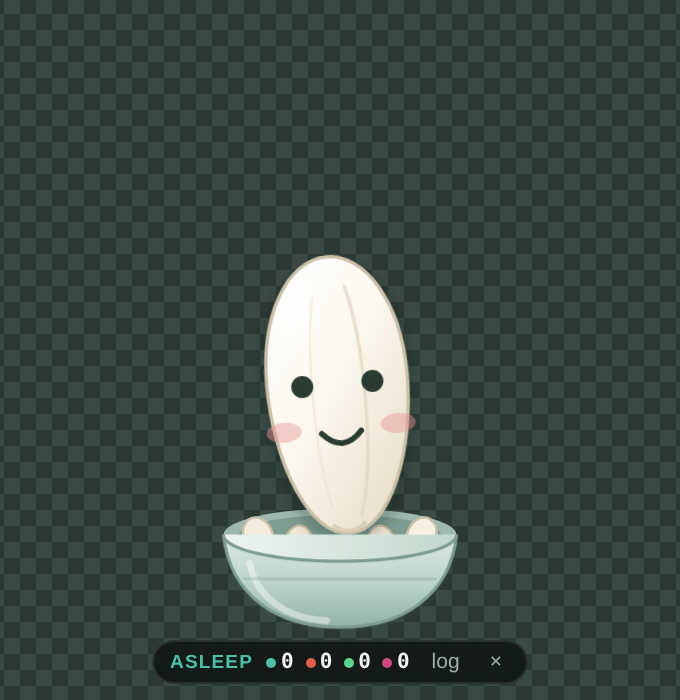
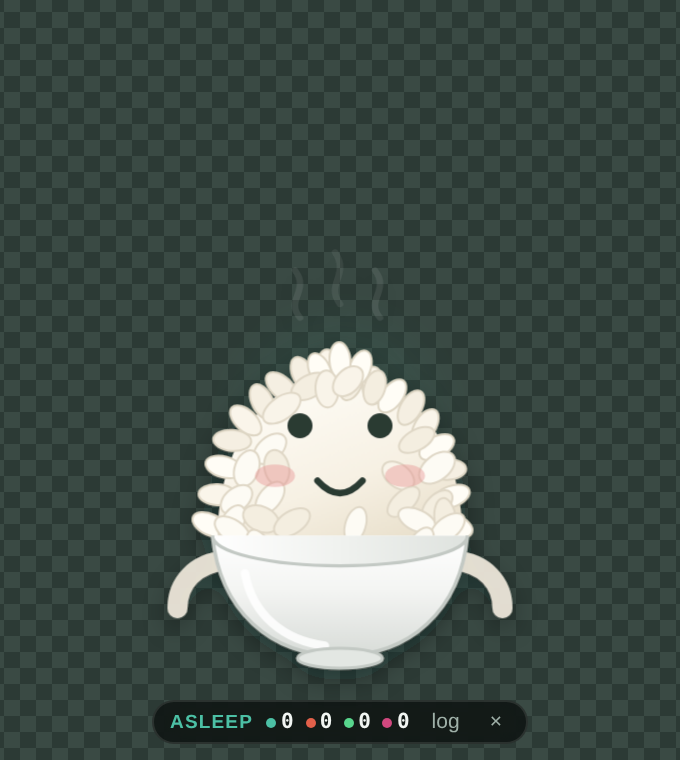
Rice is a bowl of rice now, and it has a personality
Following the team's reference: not one grain wearing a bowl, but a heaped
bowl of rice with a face. Reads instantly, and it is a lot cuter.

The heap is a solid dome with ~45 individual grains laid over it on a jittered
polar arrangement — hand-placing that many ellipses is a bad use of an evening
and looks it. Three things it took a few passes to get right:

  - the centre is deliberately left bare so the face has somewhere to live.
    A full-density heap turned the expression into noise.
  - grains straddle the silhouette so the outline is scalloped. Without that
    the profile is smooth and it goes straight back to reading as an egg,
    which was the original complaint.
  - the heap sits low and wide. Tall and domed looked like a beehive.

Characteristics, which is what was actually being asked for:
  - two arms that gesture per state — waving on hover, both up when
    celebrating, holding the shield when refused, holding the receipt when
    proving, tucked when asleep
  - steam, but only in the warm states (calm, hover, allowed, celebrating).
    A permanently steaming bowl says nothing; an intermittent one says mood.

The whole character now animates as one and pivots on the base of the bowl,
rather than a grain moving inside static furniture — a bowl of rice is one
creature, not a thing in a container.

41 tests passing; all 16 states re-rendered and checked.

Changed region(s): [[0.2471, 0.36, 0.7721, 0.96]]

diff --git a/pet/src/index.html b/pet/src/index.html
@@ -21,84 +21,122 @@
 
       <!-- The bowl stays put. The grain moves inside it. That is why the bowl
            is in two layers: back rim, grain, then front of the bowl on top. -->
-      <svg id="scene" viewBox="0 0 120 176" width="132" height="194" aria-hidden="true">
+      <svg id="scene" viewBox="0 0 120 180" width="150" height="225" aria-hidden="true">
         <defs>
-          <linearGradient id="grainFill" x1="0.18" y1="0.02" x2="0.9" y2="0.98">
-            <stop offset="0"    stop-color="#ffffff"/>
-            <stop offset="0.45" stop-color="#fbf7ec"/>
-            <stop offset="1"    stop-color="#e6dcc6"/>
+          <linearGradient id="moundFill" x1="0.25" y1="0" x2="0.8" y2="1">
+            <stop offset="0"   stop-color="#fffdf7"/>
+            <stop offset="0.6" stop-color="#f7f1e4"/>
+            <stop offset="1"   stop-color="#e9e0cc"/>
           </linearGradient>
-          <radialGradient id="grainSheen" cx="0.33" cy="0.24" r="0.46">
-            <stop offset="0" stop-color="#ffffff" stop-opacity="0.95"/>
-            <stop offset="1" stop-color="#ffffff" stop-opacity="0"/>
-          </radialGradient>
           <linearGradient id="bowlFill" x1="0" y1="0" x2="0" y2="1">
-            <stop offset="0"   stop-color="#dcebe4"/>
-            <stop offset="0.55" stop-color="#b9d2c8"/>
-            <stop offset="1"   stop-color="#93b3a7"/>
+            <stop offset="0"    stop-color="#ffffff"/>
+            <stop offset="0.45" stop-color="#f4f5f3"/>
+            <stop offset="1"    stop-color="#d8dcd8"/>
           </linearGradient>
           <linearGradient id="rimFill" x1="0" y1="0" x2="1" y2="0">
-            <stop offset="0"   stop-color="#eef5f1"/>
-            <stop offset="0.5" stop-color="#d7e7df"/>
-            <stop offset="1"   stop-color="#c2d8ce"/>
+            <stop offset="0"   stop-color="#ffffff"/>
+            <stop offset="0.5" stop-color="#f0f2ef"/>
+            <stop offset="1"   stop-color="#dfe3df"/>
           </linearGradient>
           <filter id="soft" x="-40%" y="-40%" width="180%" height="180%">
-            <feDropShadow dx="0" dy="3" stdDeviation="4" flood-color="#0b1a14" flood-opacity="0.32"/>
+            <feDropShadow dx="0" dy="4" stdDeviation="5" flood-color="#0b1a14" flood-opacity="0.34"/>
           </filter>
         </defs>
 
-        <!-- back of the rim, so the grain appears to sit down inside -->
-        <g class="bowl-back">
-          <ellipse cx="60" cy="132" rx="53" ry="12" fill="#9db9ae"/>
-          <ellipse cx="60" cy="132" rx="46" ry="9" fill="#7d9c90"/>
-        </g>
+        <!-- The whole character animates as one: a bowl of rice is a single
+             creature, not a grain sitting in furniture. -->
+        <g id="grain" class="grain" filter="url(#soft)">
 
-        <!-- two more grains, mostly buried. they do a lot of work: one shape is
-             ambiguous, three in a bowl are unmistakably rice -->
-        <g class="side-grains">
-          <path d="M20 142 c-3 -7 -2 -14 3 -16 c5 -2 9 3 8 9 c-1 6 -4 10 -7 10 z"
-                fill="#f3ecdc" stroke="#cdbfa4" stroke-width="1.1" transform="rotate(-34 21 136)"/>
-          <path d="M100 142 c3 -7 2 -14 -3 -16 c-5 -2 -9 3 -8 9 c1 6 4 10 7 10 z"
-                fill="#f6f0e2" stroke="#cdbfa4" stroke-width="1.1" transform="rotate(32 99 136)"/>
-          <path d="M38 144 c-3 -6 -2 -13 3 -15 c5 -2 8 3 7 8 c-1 5 -4 9 -6 9 z"
-                fill="#efe7d4" stroke="#cdbfa4" stroke-width="1" transform="rotate(-14 39 139)"/>
-          <path d="M82 144 c3 -6 2 -13 -3 -15 c-5 -2 -8 3 -7 8 c1 5 4 9 6 9 z"
-                fill="#f1e9d8" stroke="#cdbfa4" stroke-width="1" transform="rotate(12 81 139)"/>
-        </g>
-
-        <!-- the grain itself: narrow, tilted, creased, with the germ notch -->
-        <g id="grain" class="grain">
-          <g transform="rotate(-5 60 78)" filter="url(#soft)">
-            <path class="grain-body"
-                  d="M60 6
-                     C78 6 92 30 92 62
-                     C92 96 79 132 60 132
-                     C41 132 28 96 28 62
-                     C28 30 42 6 60 6 Z"
-                  fill="url(#grainFill)" stroke="#cbbfa6" stroke-width="1.5"/>
-            <ellipse cx="49" cy="40" rx="15" ry="24" fill="url(#grainSheen)"/>
-            <!-- the crease that runs down a grain of rice -->
-<path d="M67 20 C74 46 74 100 66 124" stroke="#e0d5bd" stroke-width="1.5"
-                  fill="none" stroke-linecap="round" opacity=".7"/>
-            <path d="M52 24 C47 48 47 96 53 120" stroke="#e6ddc8" stroke-width="1.1"
-                  fill="none" stroke-linecap="round" opacity=".45"/>
-            <!-- the germ: the little blunt notch at the base -->
-            <path d="M53 128 q7 6 14 0" stroke="#d6c9ae" stroke-width="1.8"
-                  fill="none" stroke-linecap="round" opacity=".8"/>
-            <g id="face" transform="translate(0 -10)"></g>
+          <!-- steam. only visible in the warm states, see styles.css -->
+          <g class="steam">
+            <path d="M44 30 c-6 -8 4 -12 -2 -21" fill="none" stroke="#ffffff"
+                  stroke-opacity=".5" stroke-width="2.6" stroke-linecap="round"/>
+            <path d="M60 24 c-6 -9 4 -13 -2 -23" fill="none" stroke="#ffffff"
+                  stroke-opacity=".42" stroke-width="2.6" stroke-linecap="round"/>
+            <path d="M76 30 c-6 -8 4 -12 -2 -21" fill="none" stroke="#ffffff"
+                  stroke-opacity=".5" stroke-width="2.6" stroke-linecap="round"/>
           </g>
-        </g>
 
-        <!-- front of the bowl, drawn over the grain -->
-        <g class="bowl-front">
-          <path d="M7 132 C10 160 32 174 60 174 C88 174 110 160 113 132 Z" fill="url(#bowlFill)"/>
-          <path d="M7 132 C10 160 32 174 60 174 C88 174 110 160 113 132"
-                fill="none" stroke="#7d9c90" stroke-width="1.4"/>
-          <path d="M7 132 a53 12 0 0 0 106 0" fill="url(#rimFill)"/>
-          <path d="M7 132 a53 12 0 0 0 106 0" fill="none" stroke="#7d9c90" stroke-width="1.4"/>
-          <path d="M19 145 C22 161 36 170 54 171" fill="none" stroke="#ffffff"
-                stroke-opacity=".45" stroke-width="3" stroke-linecap="round"/>
-          <path d="M16 152 h88" fill="none" stroke="#7d9c90" stroke-opacity=".35" stroke-width="1.2"/>
+          <!-- the heap: a solid dome first, then individual grains on top of it,
+               so the silhouette stays clean at small sizes -->
+          <path d="M11 120 C11 82 30 54 60 54 C90 54 109 82 109 120 Z" fill="url(#moundFill)"/>
+          <g class="mound">
+            <ellipse cx="8.1" cy="113.6" rx="4.2" ry="7.6" fill="#fffdf6" stroke="#ded6c4" stroke-width="0.8" transform="rotate(-65 8.1 113.6)"/>
+            <ellipse cx="11.0" cy="101.6" rx="4.2" ry="7.6" fill="#faf5ea" stroke="#ded6c4" stroke-width="0.8" transform="rotate(-87 11.0 101.6)"/>
+            <ellipse cx="13.6" cy="90.5" rx="4.2" ry="7.6" fill="#fffdf6" stroke="#ded6c4" stroke-width="0.8" transform="rotate(-75 13.6 90.5)"/>
+            <ellipse cx="16.9" cy="79.9" rx="4.2" ry="7.6" fill="#f5efe2" stroke="#ded6c4" stroke-width="0.8" transform="rotate(-86 16.9 79.9)"/>
+            <ellipse cx="22.3" cy="71.9" rx="4.2" ry="7.6" fill="#faf5ea" stroke="#ded6c4" stroke-width="0.8" transform="rotate(-47 22.3 71.9)"/>
+            <ellipse cx="29.0" cy="64.5" rx="4.2" ry="7.6" fill="#f5efe2" stroke="#ded6c4" stroke-width="0.8" transform="rotate(-27 29.0 64.5)"/>
+            <ellipse cx="36.6" cy="58.6" rx="4.2" ry="7.6" fill="#f5efe2" stroke="#ded6c4" stroke-width="0.8" transform="rotate(-47 36.6 58.6)"/>
+            <ellipse cx="45.3" cy="53.6" rx="4.2" ry="7.6" fill="#f5efe2" stroke="#ded6c4" stroke-width="0.8" transform="rotate(-26 45.3 53.6)"/>
+            <ellipse cx="54.9" cy="51.1" rx="4.2" ry="7.6" fill="#faf5ea" stroke="#ded6c4" stroke-width="0.8" transform="rotate(-2 54.9 51.1)"/>
+            <ellipse cx="64.7" cy="56.6" rx="4.2" ry="7.6" fill="#f5efe2" stroke="#ded6c4" stroke-width="0.8" transform="rotate(22 64.7 56.6)"/>
+            <ellipse cx="73.2" cy="58.0" rx="4.2" ry="7.6" fill="#faf5ea" stroke="#ded6c4" stroke-width="0.8" transform="rotate(1 73.2 58.0)"/>
+            <ellipse cx="80.9" cy="62.1" rx="4.2" ry="7.6" fill="#fffdf6" stroke="#ded6c4" stroke-width="0.8" transform="rotate(36 80.9 62.1)"/>
+            <ellipse cx="88.4" cy="66.8" rx="4.2" ry="7.6" fill="#f5efe2" stroke="#ded6c4" stroke-width="0.8" transform="rotate(31 88.4 66.8)"/>
+            <ellipse cx="94.1" cy="74.2" rx="4.2" ry="7.6" fill="#faf5ea" stroke="#ded6c4" stroke-width="0.8" transform="rotate(32 94.1 74.2)"/>
+            <ellipse cx="98.7" cy="82.6" rx="4.2" ry="7.6" fill="#fffdf6" stroke="#ded6c4" stroke-width="0.8" transform="rotate(61 98.7 82.6)"/>
+            <ellipse cx="102.9" cy="91.5" rx="4.2" ry="7.6" fill="#f5efe2" stroke="#ded6c4" stroke-width="0.8" transform="rotate(88 102.9 91.5)"/>
+            <ellipse cx="104.6" cy="102.3" rx="4.2" ry="7.6" fill="#fffdf6" stroke="#ded6c4" stroke-width="0.8" transform="rotate(70 104.6 102.3)"/>
+            <ellipse cx="105.8" cy="113.9" rx="4.2" ry="7.6" fill="#fffdf6" stroke="#ded6c4" stroke-width="0.8" transform="rotate(112 105.8 113.9)"/>
+            <ellipse cx="52" cy="52" rx="4.2" ry="7.4" fill="#fffdf6" stroke="#ded6c4" stroke-width="0.8" transform="rotate(-24 52 52)"/>
+            <ellipse cx="68" cy="51" rx="4.2" ry="7.4" fill="#fffdf6" stroke="#ded6c4" stroke-width="0.8" transform="rotate(20 68 51)"/>
+            <ellipse cx="60" cy="48" rx="4.2" ry="7.4" fill="#fffdf6" stroke="#ded6c4" stroke-width="0.8" transform="rotate(-4 60 48)"/>
+            <ellipse cx="47.8" cy="58.3" rx="4.5" ry="8.0" fill="#f4eee0" stroke="#e0d8c7" stroke-width="0.8" transform="rotate(61 47.8 58.3)"/>
+            <ellipse cx="54.8" cy="59.3" rx="4.6" ry="7.4" fill="#f9f4e9" stroke="#e0d8c7" stroke-width="0.8" transform="rotate(-3 54.8 59.3)"/>
+            <ellipse cx="63.2" cy="56.2" rx="4.7" ry="7.1" fill="#f9f4e9" stroke="#e0d8c7" stroke-width="0.8" transform="rotate(45 63.2 56.2)"/>
+            <ellipse cx="73.9" cy="58.7" rx="4.2" ry="7.0" fill="#f4eee0" stroke="#e0d8c7" stroke-width="0.8" transform="rotate(17 73.9 58.7)"/>
+            <ellipse cx="36.7" cy="67.0" rx="4.6" ry="8.6" fill="#f9f4e9" stroke="#e0d8c7" stroke-width="0.8" transform="rotate(55 36.7 67.0)"/>
+            <ellipse cx="32.0" cy="83.2" rx="4.7" ry="7.6" fill="#fdfbf4" stroke="#e0d8c7" stroke-width="0.8" transform="rotate(49 32.0 83.2)"/>
+            <ellipse cx="90.7" cy="79.7" rx="4.1" ry="7.8" fill="#f4eee0" stroke="#e0d8c7" stroke-width="0.8" transform="rotate(61 90.7 79.7)"/>
+            <ellipse cx="22.7" cy="91.1" rx="4.8" ry="7.5" fill="#fdfbf4" stroke="#e0d8c7" stroke-width="0.8" transform="rotate(19 22.7 91.1)"/>
+            <ellipse cx="34.7" cy="90.9" rx="4.9" ry="7.3" fill="#f4eee0" stroke="#e0d8c7" stroke-width="0.8" transform="rotate(-13 34.7 90.9)"/>
+            <ellipse cx="83.3" cy="94.0" rx="4.6" ry="7.2" fill="#f9f4e9" stroke="#e0d8c7" stroke-width="0.8" transform="rotate(-53 83.3 94.0)"/>
+            <ellipse cx="98.8" cy="90.8" rx="5.0" ry="8.2" fill="#fdfbf4" stroke="#e0d8c7" stroke-width="0.8" transform="rotate(52 98.8 90.8)"/>
+            <ellipse cx="18.6" cy="103.5" rx="4.6" ry="7.2" fill="#fdfbf4" stroke="#e0d8c7" stroke-width="0.8" transform="rotate(51 18.6 103.5)"/>
+            <ellipse cx="32.0" cy="102.9" rx="4.3" ry="7.6" fill="#fdfbf4" stroke="#e0d8c7" stroke-width="0.8" transform="rotate(39 32.0 102.9)"/>
+            <ellipse cx="85.4" cy="104.4" rx="4.1" ry="7.8" fill="#f4eee0" stroke="#e0d8c7" stroke-width="0.8" transform="rotate(48 85.4 104.4)"/>
+            <ellipse cx="98.9" cy="105.8" rx="4.2" ry="7.4" fill="#f4eee0" stroke="#e0d8c7" stroke-width="0.8" transform="rotate(46 98.9 105.8)"/>
+            <ellipse cx="16.8" cy="113.2" rx="4.4" ry="8.0" fill="#fdfbf4" stroke="#e0d8c7" stroke-width="0.8" transform="rotate(27 16.8 113.2)"/>
+            <ellipse cx="28.4" cy="111.3" rx="5.0" ry="7.5" fill="#f4eee0" stroke="#e0d8c7" stroke-width="0.8" transform="rotate(-66 28.4 111.3)"/>
+            <ellipse cx="40.8" cy="112.7" rx="4.5" ry="8.0" fill="#f4eee0" stroke="#e0d8c7" stroke-width="0.8" transform="rotate(58 40.8 112.7)"/>
+            <ellipse cx="66.2" cy="113.7" rx="4.1" ry="7.4" fill="#fdfbf4" stroke="#e0d8c7" stroke-width="0.8" transform="rotate(17 66.2 113.7)"/>
+            <ellipse cx="90.9" cy="111.9" rx="4.3" ry="8.1" fill="#fdfbf4" stroke="#e0d8c7" stroke-width="0.8" transform="rotate(-65 90.9 111.9)"/>
+            <ellipse cx="102.1" cy="111.4" rx="4.3" ry="8.5" fill="#f4eee0" stroke="#e0d8c7" stroke-width="0.8" transform="rotate(-7 102.1 111.4)"/>
+            <ellipse cx="17" cy="116" rx="4.4" ry="8" fill="#fdfbf4" stroke="#e0d8c7" stroke-width="0.8" transform="rotate(-56 17 116)"/>
+            <ellipse cx="103" cy="115" rx="4.4" ry="8" fill="#fdfbf4" stroke="#e0d8c7" stroke-width="0.8" transform="rotate(52 103 115)"/>
+            <ellipse cx="28" cy="123" rx="4.4" ry="8" fill="#fdfbf4" stroke="#e0d8c7" stroke-width="0.8" transform="rotate(-28 28 123)"/>
+            <ellipse cx="92" cy="122" rx="4.4" ry="8" fill="#fdfbf4" stroke="#e0d8c7" stroke-width="0.8" transform="rotate(30 92 122)"/>
+          </g>
+
+          <!-- little arms, so it can hold things and wave -->
+          <g class="arm arm-l">
+            <path d="M14 128 c-12 1 -19 9 -19 19" fill="none" stroke="#f6f2e8"
+                  stroke-width="8" stroke-linecap="round"/>
+            <path d="M14 128 c-12 1 -19 9 -19 19" fill="none" stroke="#cfc7b5"
+                  stroke-width="8" stroke-linecap="round" stroke-opacity=".3"/>
+          </g>
+          <g class="arm arm-r">
+            <path d="M106 128 c12 1 19 9 19 19" fill="none" stroke="#f6f2e8"
+                  stroke-width="8" stroke-linecap="round"/>
+            <path d="M106 128 c12 1 19 9 19 19" fill="none" stroke="#cfc7b5"
+                  stroke-width="8" stroke-linecap="round" stroke-opacity=".3"/>
+          </g>
+
+          <!-- the bowl, over the base of the heap -->
+          <g class="bowl">
+            <path d="M9 118 C12 148 32 166 60 166 C88 166 108 148 111 118 Z" fill="url(#bowlFill)"/>
+            <path d="M9 118 a51 12 0 0 0 102 0" fill="url(#rimFill)"/>
+            <path d="M9 118 C12 148 32 166 60 166 C88 166 108 148 111 118"
+                  fill="none" stroke="#c3c9c4" stroke-width="1.4"/>
+            <path d="M9 118 a51 12 0 0 0 102 0" fill="none" stroke="#c3c9c4" stroke-width="1.3"/>
+            <path d="M22 133 C25 150 38 160 54 162" fill="none" stroke="#ffffff"
+                  stroke-opacity=".85" stroke-width="3.4" stroke-linecap="round"/>
+            <ellipse cx="60" cy="167" rx="17" ry="4" fill="#e3e7e3" stroke="#c3c9c4" stroke-width="1.2"/>
+          </g>
+
+          <!-- the face sits on the heap, above the rim -->
+          <g id="face"></g>
         </g>
       </svg>
     </div>

diff --git a/pet/src/styles.css b/pet/src/styles.css
@@ -97,7 +97,7 @@ html, body {
 
 .pet {
   position: relative;
-  width: 132px; height: 194px;
+  width: 150px; height: 225px;
   display: grid;
   place-items: center;
 }
@@ -112,13 +112,39 @@ html, body {
    which is what makes the grain look like it is sitting *in* something. */
 .grain {
   transform-box: fill-box;
-  transform-origin: 50% 88%;
+  transform-origin: 50% 94%;   /* the base of the bowl: it pivots on the table */
 }
+
+/* Steam only when it is warm and happy about it. */
+.steam { opacity: 0; transition: opacity 400ms ease; }
+.state-calm .steam,
+.state-celebrating .steam,
+.state-hover .steam,
+.state-allowed .steam { opacity: 1; animation: rise 3.4s ease-in-out infinite; }
+@keyframes rise {
+  0%   { opacity: 0;   transform: translateY(4px)  scaleY(.9) }
+  35%  { opacity: .85; }
+  100% { opacity: 0;   transform: translateY(-12px) scaleY(1.15) }
+}
+
+/* Arms. Mostly tucked in; they come out to wave and to hold things. */
+.arm { transform-box: fill-box; transform-origin: top center; opacity: .95; }
+.arm-l { transform-origin: 100% 0; }
+.arm-r { transform-origin: 0 0; }
+.state-hover .arm-r      { animation: wave 520ms ease-in-out infinite; }
+.state-celebrating .arm-l { animation: cheerL 620ms ease-in-out infinite; }
+.state-celebrating .arm-r { animation: cheerR 620ms ease-in-out infinite; }
+.state-refused .arm-r     { transform: rotate(-38deg); }
+.state-proving .arm-r     { transform: rotate(-22deg); }
+.state-sleeping .arm, .state-offline .arm { opacity: .6; }
+@keyframes wave   { 0%,100% { transform: rotate(-14deg) } 50% { transform: rotate(-52deg) } }
+@keyframes cheerL { 0%,100% { transform: rotate(18deg) }  50% { transform: rotate(46deg) } }
+@keyframes cheerR { 0%,100% { transform: rotate(-18deg) } 50% { transform: rotate(-46deg) } }
 
 .aura {
   position: absolute;
-  width: 130px; height: 130px;
-  margin-bottom: 34px;
+  width: 140px; height: 140px;
+  margin-bottom: 46px;
   border-radius: 50%;
   background: radial-gradient(circle, var(--accent) 0%, transparent 62%);
   opacity: 0.16;

diff --git a/pet/src/rice.js b/pet/src/rice.js
@@ -81,7 +81,7 @@ const magnifier = () => `
 /** a stop sign held up beside the body, never over the face */
 const shield = () => `
   <g class="prop-pop">
-    <g transform="translate(94 72)">
+    <g transform="translate(96 62)">
       <path d="M0 0 l15 -7 15 7 v11 c0 10 -8 17 -15 20 c-7 -3 -15 -10 -15 -20 z"
         fill="#e2604a" stroke="#8f2f22" stroke-width="1.8"/>
       <path d="M8 15 h14" stroke="#fff" stroke-width="3.4" stroke-linecap="round"/>
@@ -91,17 +91,17 @@ const shield = () => `
 /** a receipt with two ticked lines and one blank — evidence being gathered */
 const receipt = () => `
   <g class="prop-tilt">
-    <rect x="90" y="76" width="30" height="38" rx="3" fill="#fdfaf2" stroke="#b9ae95" stroke-width="1.6"/>
-    <path d="M94 86 h10 M94 94 h14 M94 102 h8" stroke="#a99e86" stroke-width="1.8" stroke-linecap="round"/>
-    <path d="M110 84 l2.6 2.6 5 -6" stroke="#4cc0a5" stroke-width="2.2" fill="none" stroke-linecap="round"/>
-    <path d="M110 100 l6 6 m0 -6 l-6 6" stroke="#d1487f" stroke-width="2.2" stroke-linecap="round"/>
+    <rect x="92" y="70" width="30" height="38" rx="3" fill="#fdfaf2" stroke="#b9ae95" stroke-width="1.6"/>
+    <path d="M96 80 h10 M96 88 h14 M96 96 h8" stroke="#a99e86" stroke-width="1.8" stroke-linecap="round"/>
+    <path d="M112 78 l2.6 2.6 5 -6" stroke="#4cc0a5" stroke-width="2.2" fill="none" stroke-linecap="round"/>
+    <path d="M112 94 l6 6 m0 -6 l-6 6" stroke="#d1487f" stroke-width="2.2" stroke-linecap="round"/>
   </g>`;
 
 /** a pulsing antenna while we wait on the model */
 const antenna = () => `
   <g class="prop-antenna">
-    <path d="M60 18 v-14" stroke="${INK}" stroke-width="2.2" stroke-linecap="round"/>
-    <circle cx="60" cy="-2" r="5" fill="#5aa9e6"/>
+    <path d="M60 60 v-16" stroke="${INK}" stroke-width="2.2" stroke-linecap="round"/>
+    <circle cx="60" cy="38" r="5" fill="#5aa9e6"/>
   </g>`;
 
 const sparkle = (x, y, s = 1, colour = '#58d68d', o = 0.9) =>

diff --git a/pet/src/renderer.js b/pet/src/renderer.js
@@ -370,7 +370,7 @@ const toggle = document.getElementById('toggle');
 toggle.addEventListener('click', () => {
   logEl.hidden = !logEl.hidden;
   toggle.textContent = logEl.hidden ? 'log' : 'hide';
-  window.rice.resize(logEl.hidden ? 350 : 560);
+  window.rice.resize(logEl.hidden ? 380 : 590);
 });
 
 /* ---------------- go ---------------- */

diff --git a/test/visual.js b/test/visual.js
@@ -74,7 +74,7 @@ print("  ok  contact sheet -> test/shots/all-states.png")
   fs.mkdirSync(OUT, { recursive: true });
   const browser = await chromium.launch();
   const page = await browser.newPage({
-    viewport: { width: 340, height: 350 },
+    viewport: { width: 340, height: 380 },
     deviceScaleFactor: 2,
   });
 

diff --git a/pet/main.js b/pet/main.js
@@ -20,7 +20,7 @@ const eventsArg = argv.find((a) => a.startsWith('--events='));
 const EVENTS_URL = eventsArg ? eventsArg.split('=')[1] : 'http://127.0.0.1:4599';
 
 const W = 340;
-const H = 350;
+const H = 380;
 
 let win = null;
 

diff --git a/README.md b/README.md
@@ -22,8 +22,9 @@ face on the answer.
 Fourteen agent-driven states, plus hover and drag. Silence is the resting
 state: routine allowed actions get a nod and nothing more.
 
-The bowl never moves — everything animates on the grain, which is what makes
-it look like it is sitting *in* something rather than floating above it.
+Rice is a bowl of rice: a heaped mound of grains with a face, two little arms
+that wave and hold things, and steam when it is warm and happy about it. The
+whole thing animates as one creature, pivoting on the base of the bowl.
 
 ---
 
